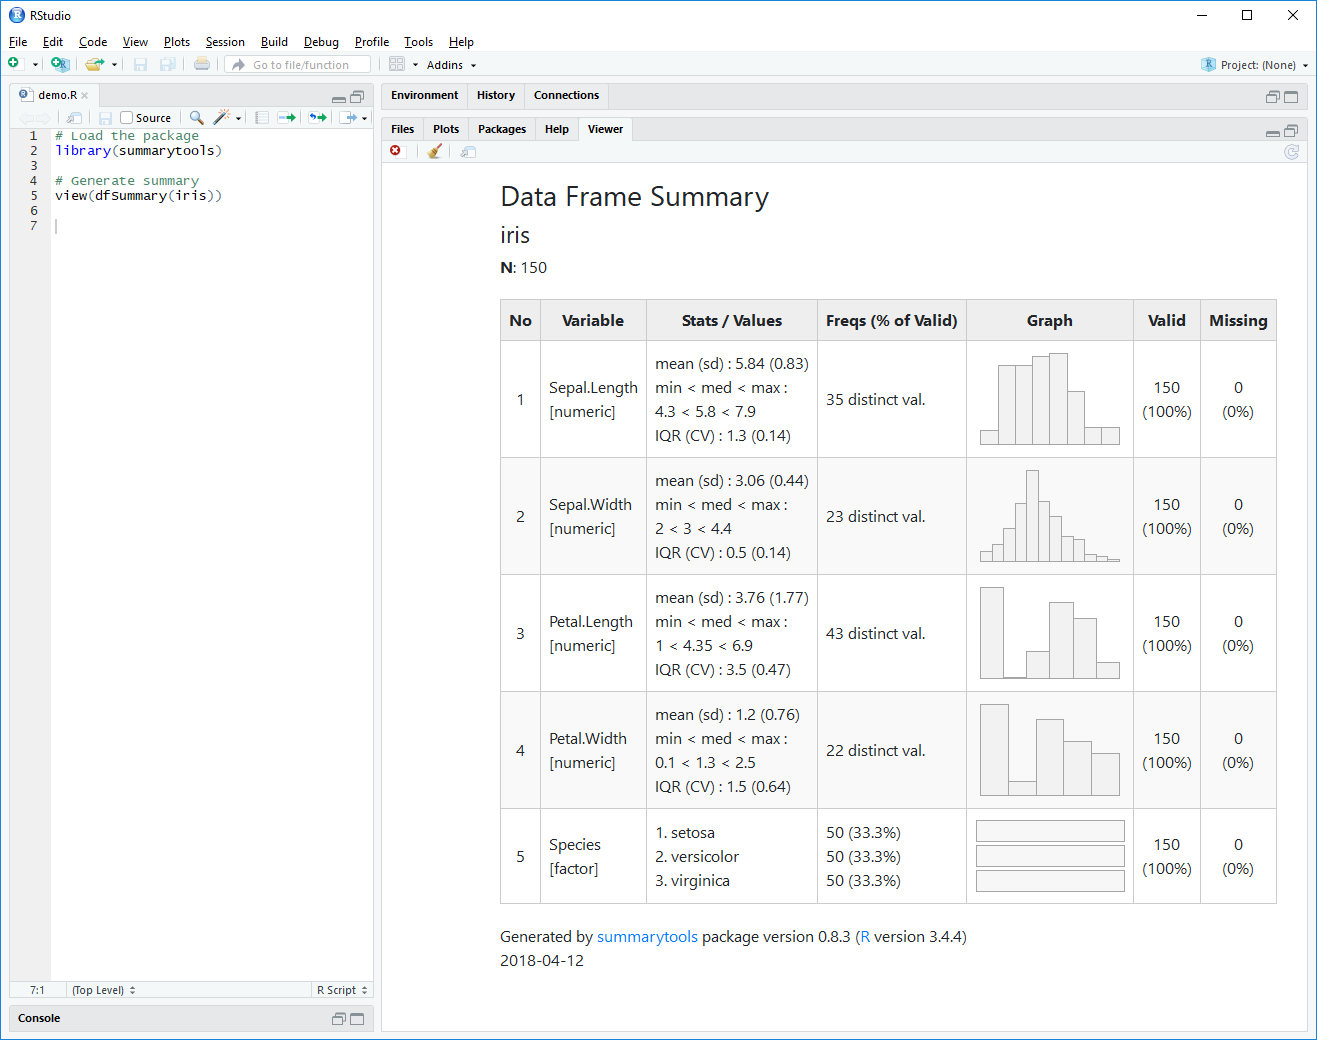
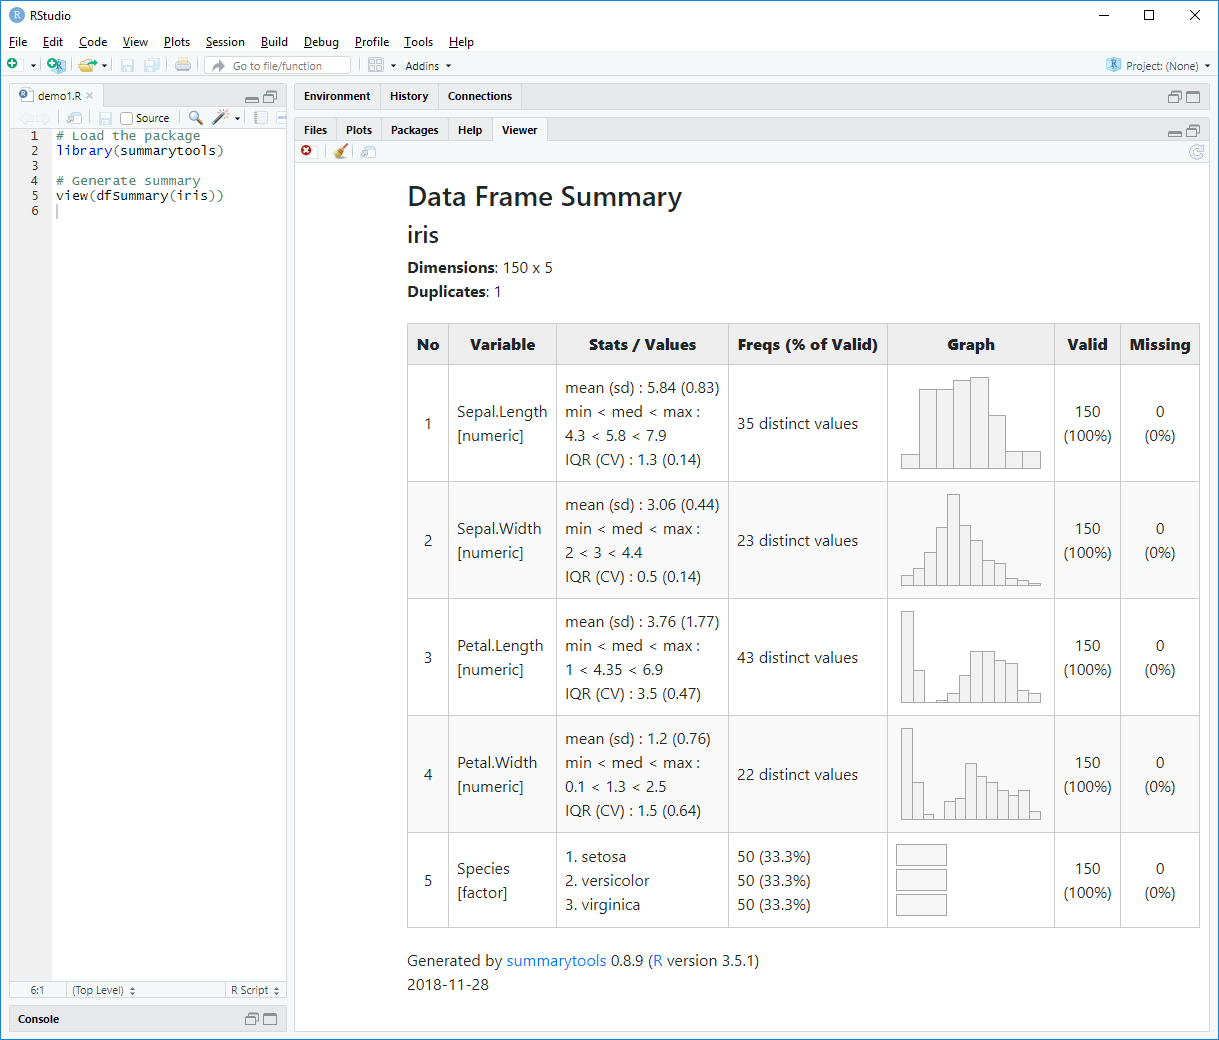
Docs update

diff --git a/README.md b/README.md
@@ -6,8 +6,8 @@
 [![](http://cranlogs.r-pkg.org/badges/grand-total/summarytools)](http://cran.rstudio.com/web/packages/summarytools/index.html)
 [![Rdoc](http://www.rdocumentation.org/badges/version/summarytools)](http://www.rdocumentation.org/packages/summarytools)
 
-The following vignette complements this page: [Recommendations for
-Using summarytools With
+The following vignette complements this page: [Recommendations for Using
+summarytools With
 Rmarkdown](https://cran.r-project.org/web/packages/summarytools/vignettes/Recommendations-rmarkdown.html)
 
 # What is summarytools?
@@ -39,8 +39,8 @@ with larger sets of tools such as RStudio’s for
 produced by summarytools can be:
 
   - Displayed in plain text in the *R* console (default behaviour)
-  - Used in *Rmardown* documents and *knitted* along with other text and
-    *R* output
+  - Used in *Rmarkdown* documents and *knitted* along with other text
+    and *R* output
   - Written to *html* files that fire up in
     [*RStudio*](http://www.rstudio.com/)’s Viewer pane or in your
     system’s default browser
@@ -49,13 +49,23 @@ produced by summarytools can be:
 Some people have successfully included some of the package’s functions
 in *shiny apps*, too\!
 
-### Latest News
+### Latest Improvements
 
-*summarytools*' dataframe summaries are now part of [radiant](https://github.com/radiant-rstats/radiant), an outstanding *Shiny* App  for Business analytics that I highly recommend.
+Version 0.8.9 brings several improvements to *summarytools*, notably:
+
+  - Easier management of global settings (customizable defaults) with
+    `st_options()`
+  - `dfSummary()` now shows number of culumns in heading, as well as
+    number of duplicated rows
+  - `dfSummary()` barplots more accurately reflect counts
+  - `dfSummary()` better handles columns with some particular content
+    (unary/binary, integer sequences, UPC/EAN codes)
+  - in `descr()`, values ‘fivenum’ and ‘common’ are now available for
+    `stats` argument
 
 # How to install
 
-To benefit from all the latests fixes, install it from GitHub:
+To benefit from all the latest fixes, install it from GitHub:
 
 ``` r
 install.packages("devtools")
@@ -69,7 +79,7 @@ To install the most recent version on the *R-CRAN* repository:
 install.packages("summarytools")
 ```
 
-For enthusiastic users willig to contribute to *summarytools*’
+For enthusiastic users willing to contribute to *summarytools*’
 development, I encourage you to go for the **development** version,
 which is the most up-to-date, but also a *work-in-progress*. Bugs may
 show up, but if you report them I can generally fix them quickly.
@@ -296,8 +306,11 @@ descr(iris, style = "rmarkdown")
 If your eyes/brain prefer seeing things the other way around, just use
 `transpose = TRUE`. Here, we also select only the statistics we wish to
 see, and specify `omit.headings = TRUE` to avoid reprinting the same
-information as
-above.
+information as above.
+
+You can specify the stats you wish to report with the `stats` argument,
+which also accepts special values `all`, `fivenum`, and
+`common`.
 
 ``` r
 descr(iris, stats = c("mean", "sd", "min", "med", "max"), transpose = TRUE, 
@@ -338,7 +351,7 @@ viewer](img/dfSummary_in_RStudio_Viewer.png)
 It is also possible to use `dfSummary()` in *Rmarkdown* documents. In
 this next example, note that due to rmarkdown compatibility issues,
 histograms are not shown. We’re working on this. Further down, we’ll see
-how tu use *html* rendering to go around this problem.
+how to use *html* rendering to go around this problem.
 
 ``` r
 dfSummary(tobacco, plain.ascii = FALSE, style = "grid")
@@ -347,17 +360,18 @@ dfSummary(tobacco, plain.ascii = FALSE, style = "grid")
 ### Data Frame Summary
 
 **tobacco**  
-**N:** 1000
+**Dimensions:** 1000 x 9  
+**Duplicates:** 2
 
 <table>
 <colgroup>
 <col style="width: 4%" />
 <col style="width: 14%" />
-<col style="width: 24%" />
-<col style="width: 19%" />
-<col style="width: 19%" />
-<col style="width: 8%" />
-<col style="width: 8%" />
+<col style="width: 25%" />
+<col style="width: 20%" />
+<col style="width: 16%" />
+<col style="width: 9%" />
+<col style="width: 9%" />
 </colgroup>
 <thead>
 <tr class="header">
@@ -379,8 +393,8 @@ dfSummary(tobacco, plain.ascii = FALSE, style = "grid")
 2. M</td>
 <td>489 (50.0%)<br />
 489 (50.0%)</td>
-<td>IIIIIIIIIIIIIIII<br />
-IIIIIIIIIIIIIIII</td>
+<td>IIIIIIIIII<br />
+IIIIIIIIII</td>
 <td>978<br />
 (97.8%)</td>
 <td>22<br />
@@ -413,10 +427,10 @@ IQR (CV) : 32 (0.37)</td>
 241 (24.7%)<br />
 317 (32.5%)<br />
 159 (16.3%)</td>
-<td>IIIIIIIIIIIII<br />
-IIIIIIIIIIII<br />
-IIIIIIIIIIIIIIII<br />
-IIIIIIII</td>
+<td>IIIII<br />
+IIII<br />
+IIIIII<br />
+III</td>
 <td>975<br />
 (97.5%)</td>
 <td>25<br />
@@ -445,8 +459,8 @@ IQR (CV) : 5.72 (0.17)</td>
 2. No</td>
 <td>298 (29.8%)<br />
 702 (70.2%)</td>
-<td>IIIIII<br />
-IIIIIIIIIIIIIIII</td>
+<td>IIIII<br />
+IIIIIIIIIIIIII</td>
 <td>1000<br />
 (100%)</td>
 <td>0<br />
@@ -476,7 +490,7 @@ IQR (CV) : 11 (1.75)</td>
 <td>224 (22.4%)<br />
 776 (77.6%)</td>
 <td>IIII<br />
-IIIIIIIIIIIIIIII</td>
+IIIIIIIIIIIIIII</td>
 <td>1000<br />
 (100%)</td>
 <td>0<br />
@@ -507,18 +521,18 @@ IIIIIIIIIIIIIIII</td>
 14 ( 6.3%)<br />
 12 ( 5.4%)<br />
 11 ( 5.0%)<br />
-21 ( 9.4%)</td>
-<td>IIIIIIIIIIIIIIII<br />
-IIIIIIIIIIIIIII<br />
-IIIIIIIII<br />
-IIIIIIII<br />
-IIIIIIII<br />
-IIIIIIII<br />
-IIIIII<br />
-IIIIII<br />
-IIIII<br />
-IIII<br />
-IIIIIIIII</td>
+21 ( 9.5%)</td>
+<td>III<br />
+III<br />
+I<br />
+I<br />
+I<br />
+I<br />
+I<br />
+I<br />
+I<br />
+<br />
+I</td>
 <td>222<br />
 (22.2%)</td>
 <td>778<br />
@@ -537,10 +551,10 @@ IQR (CV) : 0.19 (0.08)</td>
 1.05!: 324 (32.4%)<br />
 1.06!: 160 (16.0%)<br />
 ! rounded</td>
-<td>IIIIIIIIIIIII<br />
-IIIIIIIIIIII<br />
-IIIIIIIIIIIIIIII<br />
-IIIIIII<br />
+<td>IIIII<br />
+IIII<br />
+IIIIII<br />
+III<br />
 <br />
 </td>
 <td>1000<br />
@@ -569,7 +583,7 @@ show statistics split by a ventilation / categorical variable. *R*’s
 `by()` function returns a `list` containing as many *summarytools*
 objects as there are categories in our ventilation variable.
 
-To propertly display the content present in that list, **we use the
+To properly display the content present in that list, **we use the
 `view()` function**. Using `print()`, while technically possible, will
 not give as much satisfactory results.
 
@@ -683,7 +697,7 @@ view(freq_tables, footnote = NA, file = 'freq-tables.html')
 
 As we have seen, *summarytools* can generate both text (including
 rmarkdown) and html results. Both can be used in Rmarkdown, according to
-your preferences. The vignette mentionned at the top of this page is
+your preferences. The vignette mentioned at the top of this page is
 dedicated to showing examples, but if you’re in a hurry, here are a few
 tips to get started:
 
@@ -713,7 +727,6 @@ on *knitr*’s options.
     
     # ```{r, results='asis'}
     # library(summarytools)  
-    # freq(tobacco$smoker, style='rmarkdown')  
     # 
     # print(dfSummary(tobacco, style = 'grid', plain.ascii = FALSE, graph.magnif = 0.85), 
     #       method = 'render', omit.headings = TRUE)
@@ -731,7 +744,7 @@ and location of that file explicitly if you need to reuse it later on:
 view(iris_stats_by_species, file = "~/iris_stats_by_species.html")
 ```
 
-Based on the file extension you provide (*.html* vs others),
+Based on the file extension you provide (\_.html\_ vs others),
 *summarytools* will use the appropriate method; there is no need to
 specify the `method` argument.
 
@@ -745,33 +758,62 @@ extra content that the latter allows.
 
 ## Global options
 
-Version 0.8.3 introduced the following set of global options:
+The following options are customizable with `st_options()`:
+
+**General options**
+
+  - `style` = `simple`
 
   - `round.digits` = `2`
+
   - `plain.ascii` = `TRUE`
+
   - `omit.headings` = `FALSE` (if using in a markdown document or a
     shiny app, setting this to `TRUE` might be preferable
-  - `footnote` = `'default'` (set to empty string or `NA` to omit
-    footnote)
-  - `display.labels` = `TRUE`
-  - `freq.totals` = `TRUE`
-  - `freq.display.nas` = `TRUE`
-  - `ctable.totals` = `TRUE`
-  - `ctable.prop` = `'r'` (display *r*ow proportions by default)
-  - `descr.stats` = `'all'`
-  - `descr.transpose` = `FALSE`
+
+  - `footnote` = `'default'` (set to empty string or `NA` to omit)
+
+  - `display.labels` = `TRUE` (specifies whether labels are shown in
+    headings)
+
   - `bootstrap.css` = `TRUE` (if using in a markdown document or a shiny
-    app, setting this to `FALSE` might be preferable
+
   - `custom.css` = `NA`
-  - `escape.pipe` = `FALSE`
+
+  - `escape.pipe` = `FALSE` app, setting this to `FALSE` might be
+    preferable
+    
+    **Function-specific options**
+
+  - `freq.totals` = `TRUE`
+
+  - `freq.report.nas` = `TRUE`
+
+  - `ctable.prop` = `'r'` (display *r*ow proportions by default)
+
+  - `ctable.totals` = `TRUE`
+
+  - `descr.stats` = `'all'`
+
+  - `descr.transpose` = `FALSE`
+
+  - `dfSummary.varnumbers` = `TRUE`
+
+  - `dfSummary.valid.col` = `TRUE`
+
+  - `dfSummary.na.col` = `TRUE`
+
+  - `dfSummary.graph.col` = `TRUE`
+
+  - `dfSummary.graph.magnif` = `1`
 
 #### Examples
 
 ``` r
-st_options()                      # display all global options' values
-st_options('round.digits')        # display only one option
-st_options('omit.headings', TRUE) # change an option's value
-st_options('footnote', NA)        # Turn off the footnote on all outputs.
+st_options()                      # display all global options values
+st_options('round.digits')        # display the value for one specific option
+st_options(omit.headings = TRUE)  # change an option's value
+st_options(footnote = NA)         # Turn off the footnote on all outputs.
                                   # This option was used prior to generating
                                   # the present document.
 ```
